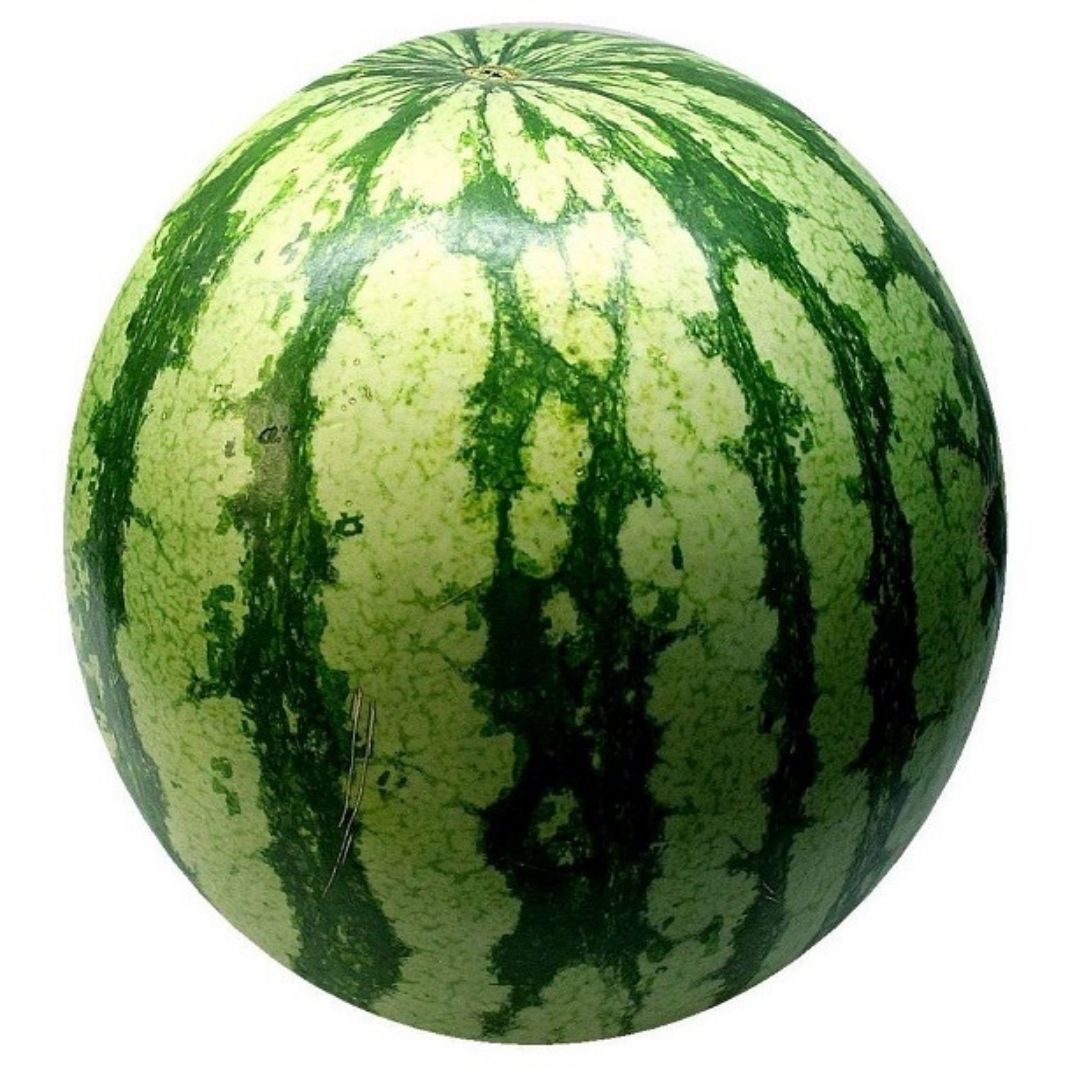
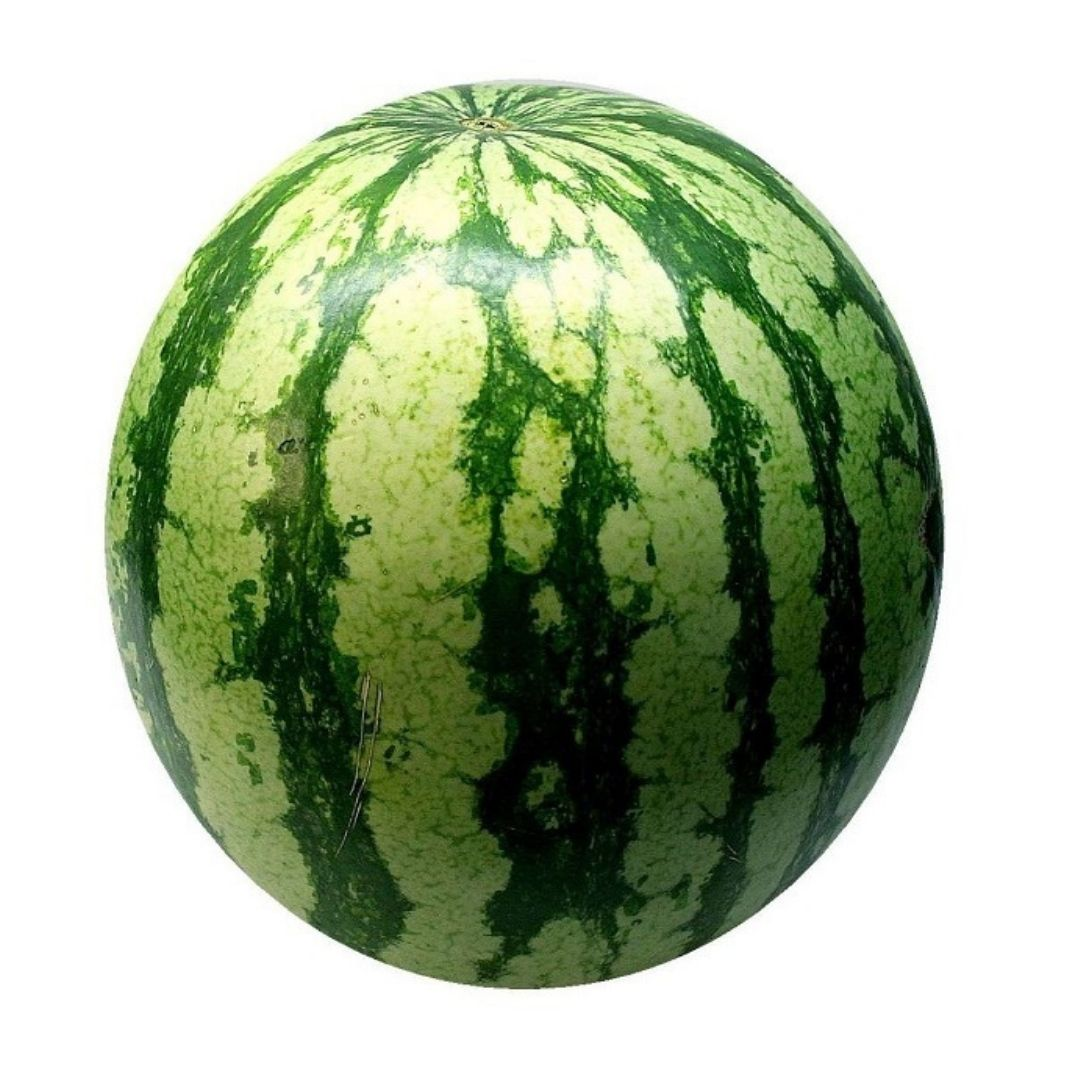
Alteradas as imagens e página de lista de produtos alterada para ser dinâmica

diff --git a/mercadinhx/principal/templates/index.html b/mercadinhx/principal/templates/index.html
@@ -61,14 +61,14 @@
                     <div class="col-12 col-md-3">
                         <img src="{% static 'img/padaria2.png' %}" alt="Clique para ir">
                         <div class="banner-content">
-                            <button onclick="window.location.href='{% url 'lista_de_produtos' %}'"
+                            <button onclick="window.location.href='{% url 'lista_de_produtos' id=0 %}'"
                                 class="btn-outline-success btn-lg">Padaria</button>
                         </div>
                     </div>
                     <div class="col-12 col-md-3">
                         <img src="{% static 'img/acougue2.JPEG.png' %}" alt="Clique para ir">
                         <div class="banner-content">
-                            <button onclick="window.location.href='{% url 'lista_de_produtos' %}'"
+                            <button onclick="window.location.href='{% url 'lista_de_produtos' id=1 %}'"
                                 class="btn-outline-success btn-lg">Açougue</button>
                         </div>
                     </div>
@@ -76,7 +76,7 @@
                     <div class="col-12 col-md-3">
                         <img src="{% static 'img/alimentos2.JPEG.png' %}" alt="Clique para ir">
                         <div class="banner-content">
-                            <button onclick="window.location.href='{% url 'lista_de_produtos' %}'"
+                            <button onclick="window.location.href='{% url 'lista_de_produtos' id=2 %}'"
                                 class="btn-outline-success btn-lg">Alimentos</button>
                         </div>
                     </div>
@@ -84,7 +84,7 @@
                     <div class="col-12 col-md-3">
                         <img src="{% static 'img/produtos_de_limpeza2.jpg.png' %}" alt="Clique para ir">
                         <div class="banner-content">
-                            <button onclick="window.location.href='{% url 'lista_de_produtos' %}'"
+                            <button onclick="window.location.href='{% url 'lista_de_produtos' id=3 %}'"
                                 class="btn-outline-success btn-lg">Produtos de limpeza</button>
                             <!--<a href="lista_de_produtos.html" class="btn btn-primary btn-lg disabled" tabindex="-1" role="button" aria-disabled="true">Produtos de limpeza</a>-->
                             <!--<a href="lista_de_produtos.html" class="btn btn-primary btn-lg" role="button" data-bs-toggle="button">Produtos de limpeza</a>-->

diff --git a/mercadinhx/principal/templates/produtos.html b/mercadinhx/principal/templates/produtos.html
@@ -76,7 +76,7 @@
         <div class="row justify-content-center informacoes-produto">
             <div class="col-12 col-md-10 fundo-amarelo tipos-de-assinatura">
                 <p>Nosso produto {{nome}} é comprado diretamente do podutor. A produção é feita no município
-                    de Venda Nova do Imgrante, sem a utilização de agrotóxicos visando o bem estar dos clientes e bons
+                    de Venda Nova do Imgrante, sem a utilização de agrotóxicos ou outros agentes químicos que podem ser nocivos, visando o bem estar dos clientes e bons
                     cuidados com a natureza. </p>
             </div>
         </div>

diff --git a/mercadinhx/principal/templates/banner_promocoes.html b/mercadinhx/principal/templates/banner_promocoes.html
@@ -4,7 +4,7 @@
     <!-- Imagem do banner de promoçoes -->
     <img src="{% static 'img/promocao.png' %}" alt="Clique para ir">
     <div class="banner-content">
-        <button onclick="window.location.href='{% url 'lista_de_produtos' %}'"
+        <button onclick="window.location.href='{% url 'lista_de_produtos' id=4 %}'"
             class="btn-outline-success btn-lg">Veja já as promoções</button>
     </div>
 </div>

diff --git a/mercadinhx/principal/urls.py b/mercadinhx/principal/urls.py
@@ -3,7 +3,7 @@ from principal import views
 
 urlpatterns = [
     path("home/", views.home, name="home"),
-    path("lista_de_produtos/", views.lista_de_produtos, name="lista_de_produtos"),
+    path("lista_de_produtos/(?P<str:id>\d+)", views.lista_de_produtos, name="lista_de_produtos"),
     path("assinatura/", views.assinatura, name="assinatura"),
     path("cadastro/", views.cadastro, name="cadastro"),
     path("fale_conosco/", views.fale_conosco, name="fale_conosco"), 

diff --git a/mercadinhx/principal/views.py b/mercadinhx/principal/views.py
@@ -20,8 +20,8 @@ def home(request):
 
 def lista_de_produtos(request, id='4'):
     secoes = {
-        "0": "acougue",
-        "1": "padaria",
+        "0": "padaria",
+        "1": "acougue",
         "2": "frutas_e_verduras",
         "3": "produtos_de_limpeza",
         "4": "promocoes"
